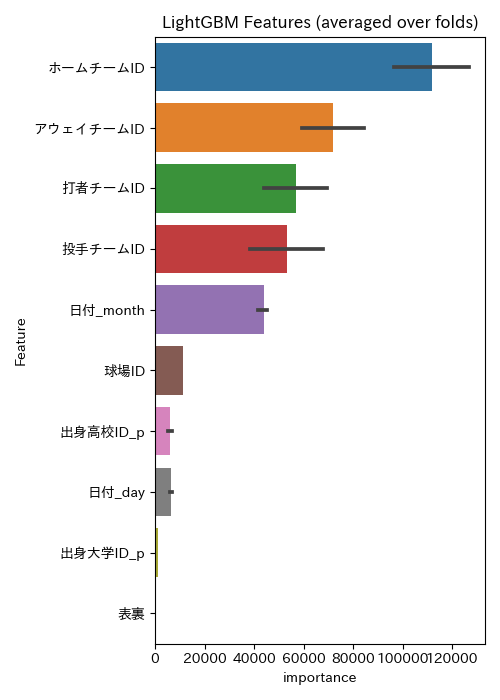
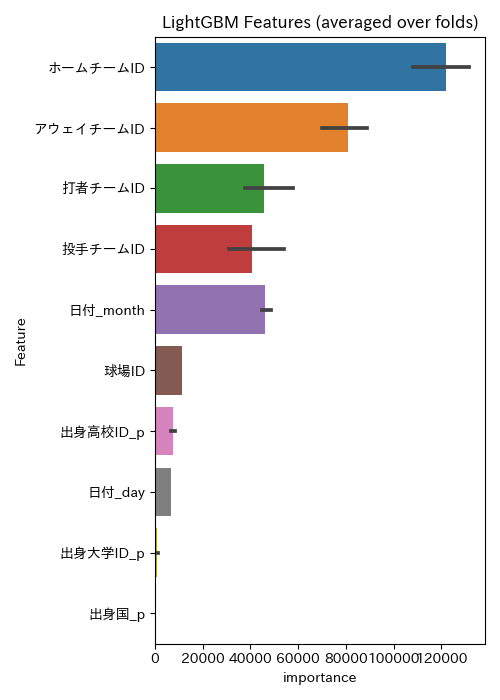
fe000

diff --git a/experiments/create_features.py b/experiments/create_features.py
@@ -18,27 +18,29 @@ def convert2roman(text):
 
 PLAYER_USE_COL = [
     '年度', 'チームID', '選手ID', '位置', '投', '打', '身長', '体重', '生年月日',
-    '社会人', 'ドラフト年', 'ドラフト種別', 'ドラフト順位', '年俸', '出身国'
+    '出身高校ID', '出身大学ID', '社会人', 'ドラフト年', 'ドラフト種別', 'ドラフト順位', '年俸', '出身国', '出身地'
 ]
 PITCH_USE_COL = [
     '球種', '投球位置区域', '年度', '試合内連番', '試合内投球数', '日付',
-    '試合種別詳細', 'イニング', '表裏',
-    'イニング内打席数', '打席内投球数', '投手ID', '投手投球左右', '投手役割', '投手登板順',
-    '投手試合内対戦打者数', '投手試合内投球数', '投手イニング内投球数', '打者ID', '打者打席左右',
+    'ホームチームID', 'アウェイチームID', '球場ID', '試合種別詳細', 'イニング', '表裏',
+    'イニング内打席数', '打席内投球数', '投手ID', '投手チームID', '投手投球左右', '投手役割', '投手登板順',
+    '投手試合内対戦打者数', '投手試合内投球数', '投手イニング内投球数', '打者ID', '打者チームID', '打者打席左右',
     '打者打順', '打者守備位置', '打者試合内打席数', 'プレイ前ホームチーム得点数', 'プレイ前アウェイチーム得点数',
     'プレイ前アウト数', 'プレイ前ボール数', 'プレイ前ストライク数', 'プレイ前走者状況'
 ]
 DATETIME_COL = ['日付', '生年月日_p', '生年月日_b']
 DELETE_COL = [
     '年度', '日付', '日付_year', '投手ID', '打者ID', '選手ID_p', '生年月日_p', '選手ID_b', '生年月日_b',
-    'チームID_p', 'チームID_b', '位置_p', '生年月日_p_day', '生年月日_p_dow', '生年月日_b_day', '生年月日_b_dow',
-    '日付_month', '日付_day'
+    'チームID_p', 'チームID_b', '位置_p', '生年月日_p_day', '生年月日_p_dow', '生年月日_b_day', '生年月日_b_dow'
 ]
 CATEGORICAL_COL = [
-    '試合種別詳細', '表裏', '投手投球左右', '投手役割', '打者打席左右', '打者守備位置', '投_p', '打_p',
-    'プレイ前走者状況', '社会人_p', 'ドラフト種別_p', '出身国_p',
-    '位置_b', '投_b', '打_b', '社会人_b', 'ドラフト種別_b', '出身国_b'
+    'ホームチームID', 'アウェイチームID', '球場ID', '試合種別詳細', '表裏',
+    '投手チームID', '投手投球左右', '投手役割', '打者チームID', '打者打席左右', '打者守備位置', '投_p', '打_p',
+    'プレイ前走者状況', '出身高校ID_p', '出身大学ID_p', '社会人_p', 'ドラフト種別_p', '出身国_p',
+    '出身地_p', '位置_b', '投_b', '打_b', '出身高校ID_b', '出身大学ID_b', '社会人_b',
+    'ドラフト種別_b', '出身国_b', '出身地_b'
 ]
+fename = 'fe000'
 
 
 if __name__ == '__main__':
@@ -87,7 +89,6 @@ if __name__ == '__main__':
         stratify=train['shiaishubetsushousai'],
         random_state=42)
 
-    fename = 'fe002'
     Data.dump(X_train, f'../input/X_train_{fename}.pkl')
     Data.dump(y_train, f'../input/y_train_{fename}.pkl')
     Data.dump(X_test, f'../input/X_test_{fename}.pkl')
